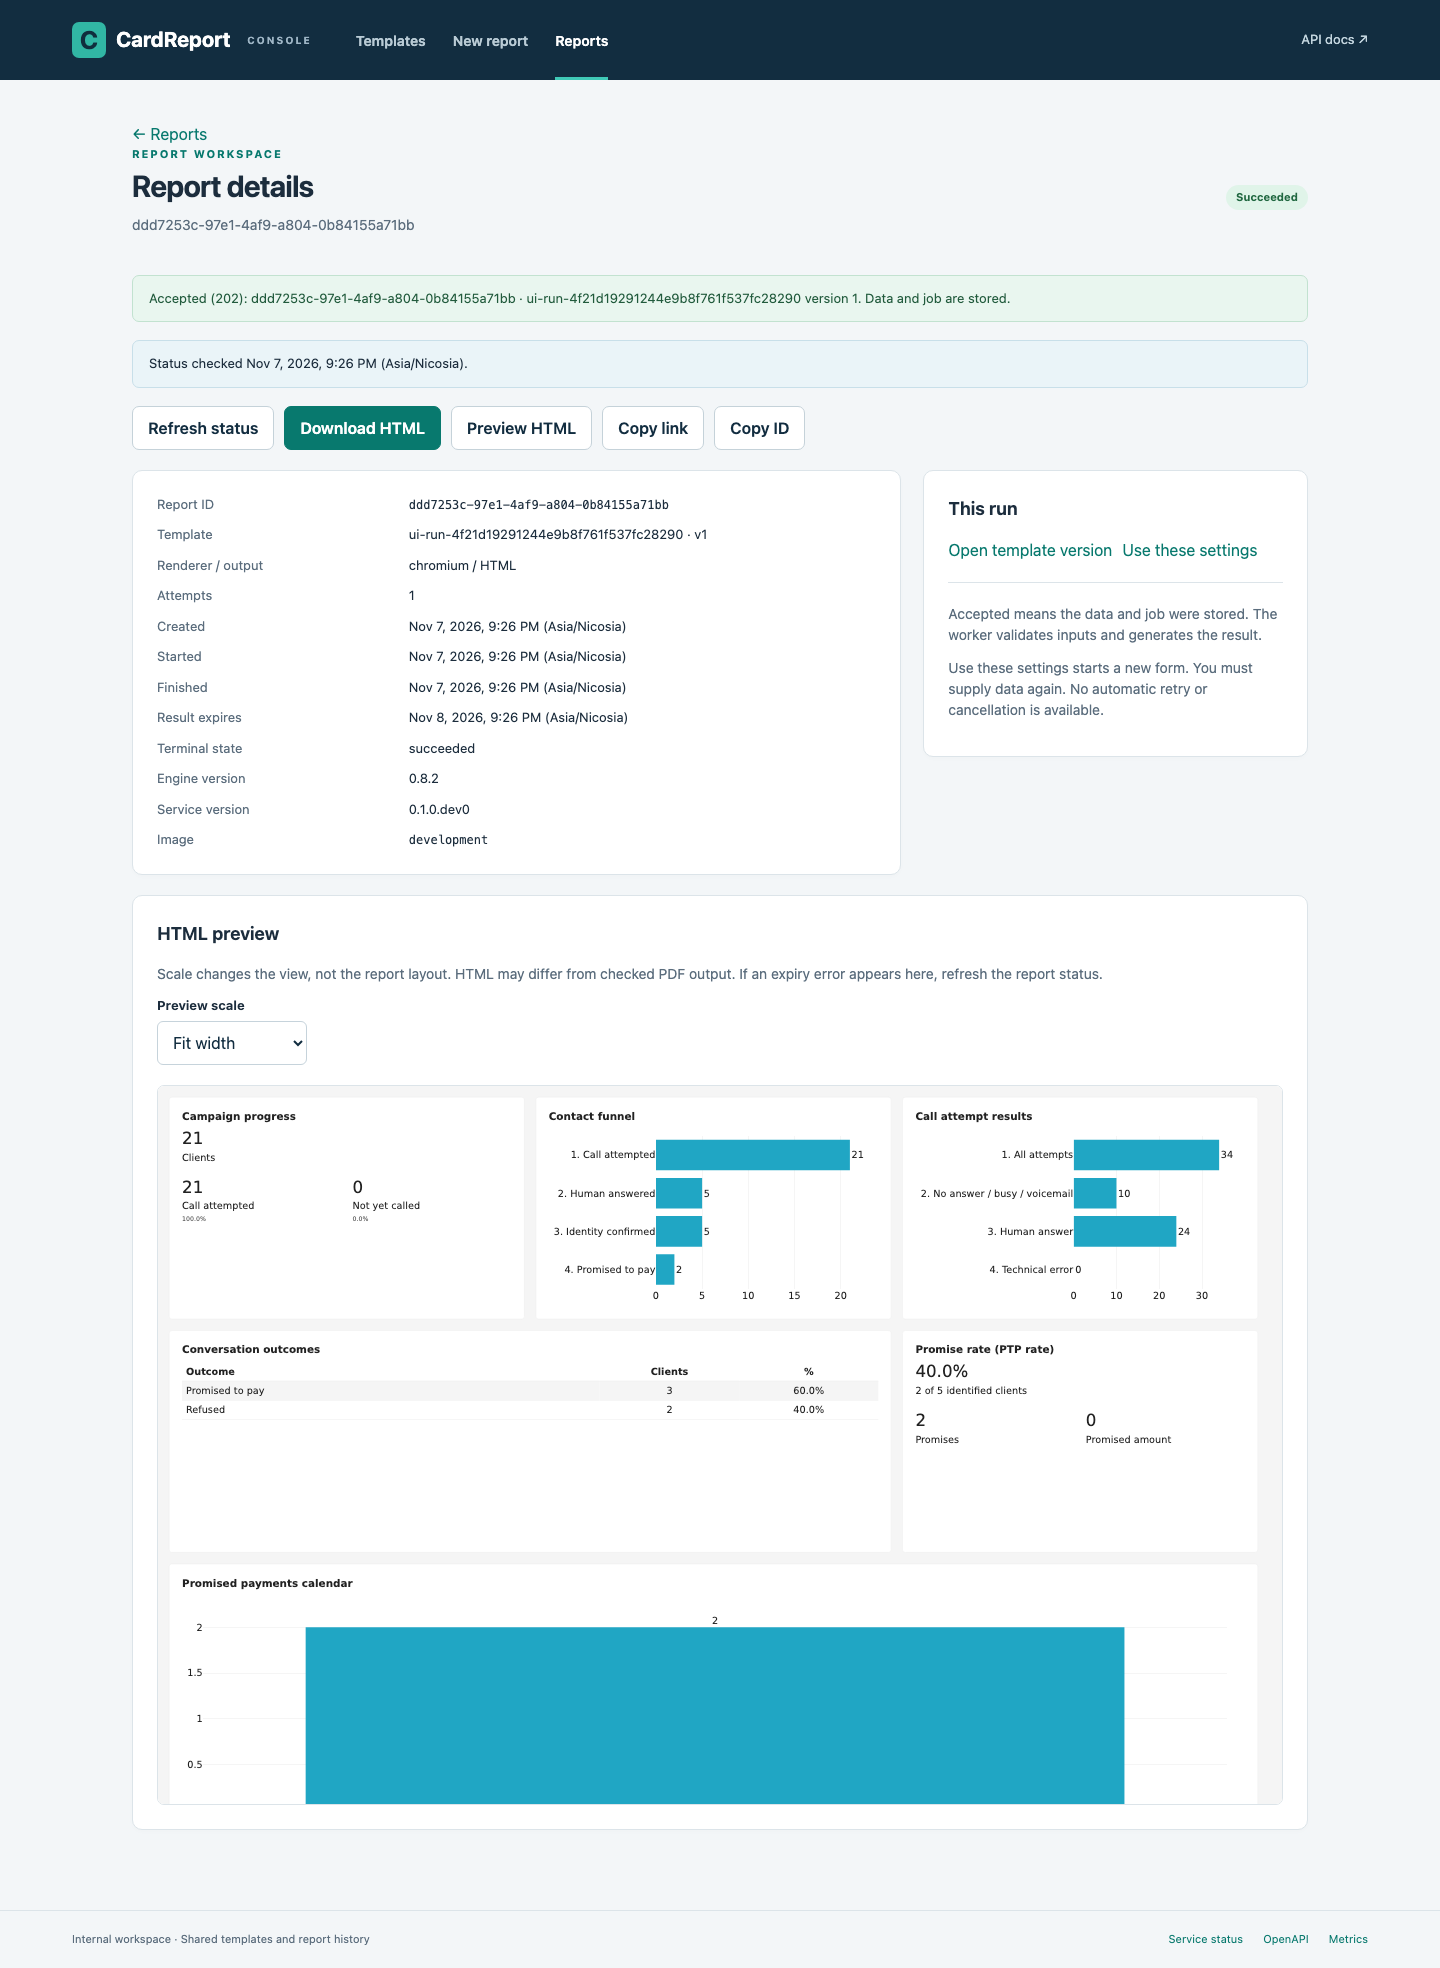
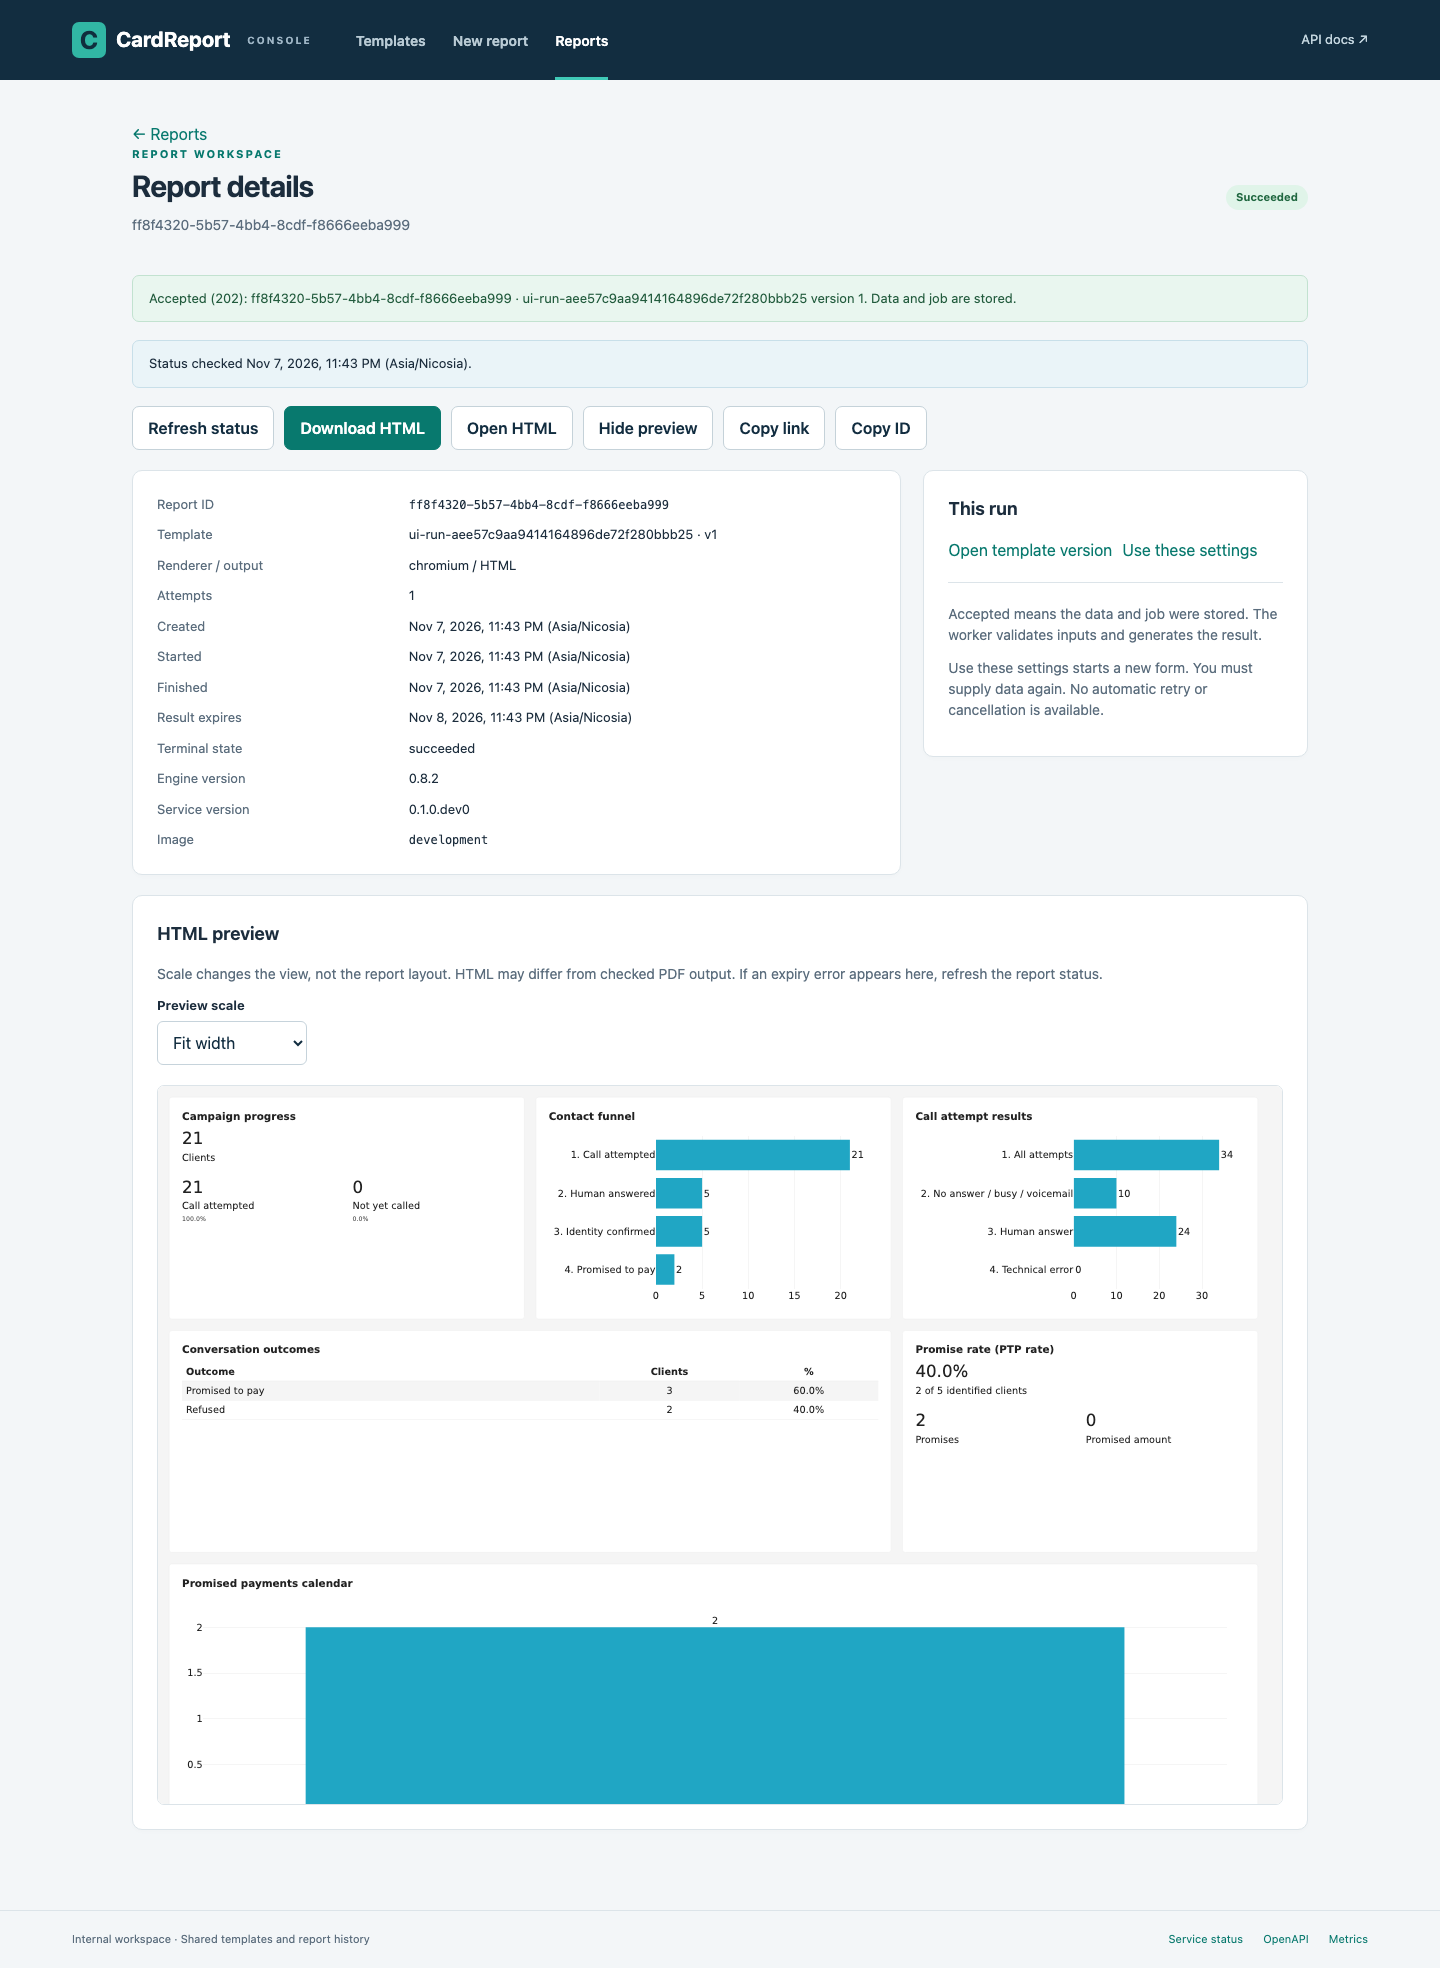
fix: allow closing HTML preview and opening it in a tab

diff --git a/src/cardreport_server/web/reports.js b/src/cardreport_server/web/reports.js
@@ -35,20 +35,21 @@ export async function reportDetail(root, ctx, id, params = new URLSearchParams()
   const acceptance = notice();
   if (accepted) history.replaceState(null, '', `#/reports/${encodeURIComponent(id)}`);
   const status = notice(), info = el('div', {class:'panel'}), errorBox = notice();
-  const previewArea = el('section', {class:'panel', hidden:true});
+  const previewArea = el('section', {id:'html-preview', class:'panel', hidden:true});
   const contentUrl = `/v1/reports/${encodeURIComponent(id)}/content`;
   let row = null, busy = false, timer = null, delay = 2000, missing = false, halted = false;
   const refresh = button('Refresh status', () => load(true));
   const download = el('a', {href:contentUrl, class:'button primary', hidden:true}, 'Download');
   const preview = button('Preview HTML', showPreview); preview.hidden = true;
-  const openPdf = el('a', {href:contentUrl + '?disposition=inline', target:'_blank', rel:'noopener noreferrer', class:'button', hidden:true}, 'Open PDF');
+  preview.setAttribute('aria-controls', 'html-preview'); preview.setAttribute('aria-expanded', 'false');
+  const openResult = el('a', {href:contentUrl + '?disposition=inline', target:'_blank', rel:'noopener noreferrer', class:'button', hidden:true}, 'Open PDF');
   const pdfHint = el('p', {class:'muted'}, 'Open PDF uses your browser’s viewer in a new tab. Browser settings may download it instead; an expired result opens an error.'); pdfHint.hidden = true;
   let previewObserver = null, previewRequest = 0;
   const reuse = link('Use these settings', '#/new-report'); reuse.hidden = true;
   const templateLink = link('Open template version', '#/templates'); templateLink.hidden = true;
   const badgeArea = el('div');
   root.replaceChildren(link('← Reports', '#/reports'), heading('Report details', id, badgeArea), acceptance, status,
-    el('div', {class:'toolbar'}, refresh, download, openPdf, preview, button('Copy link', () => copy(location.href, status)), button('Copy ID', () => copy(id, status))),
+    el('div', {class:'toolbar'}, refresh, download, openResult, preview, button('Copy link', () => copy(location.href, status)), button('Copy ID', () => copy(id, status))),
     el('div', {class:'grid'}, el('section', {}, info, errorBox), el('aside', {class:'panel'}, el('h2', {}, 'This run'),
       el('div', {class:'actions'}, templateLink, reuse), el('hr', {class:'divider'}), el('p', {class:'muted'}, 'Accepted means the data and job were stored. The worker validates inputs and generates the result.'),
       pdfHint,
@@ -64,7 +65,8 @@ export async function reportDetail(root, ctx, id, params = new URLSearchParams()
     message(errorBox, row.error ? `${row.error.message} (${row.error.code})${row.error.id ? ` · Reference ${row.error.id}` : ''}` : '', row.error ? 'error' : '', user);
     download.hidden = row.state !== 'succeeded'; preview.hidden = row.state !== 'succeeded' || row.output !== 'html';
     download.textContent = `Download ${row.output.toUpperCase()}`;
-    openPdf.hidden = row.state !== 'succeeded' || row.output !== 'pdf';
+    openResult.hidden = row.state !== 'succeeded';
+    openResult.textContent = `Open ${row.output.toUpperCase()}`;
     pdfHint.hidden = row.output !== 'pdf';
     templateLink.hidden = false; templateLink.href = `#/templates/${encodeURIComponent(row.template_id)}?version=${row.template_version}`;
     reuse.hidden = false; reuse.href = `#/new-report?${new URLSearchParams({template:row.template_id,version:row.template_version,renderer:row.renderer,output:row.output})}`;
@@ -86,7 +88,7 @@ export async function reportDetail(root, ctx, id, params = new URLSearchParams()
       halted = error instanceof APIError && error.status >= 400 && error.status < 500 && error.status !== 429;
       delay = Math.max(Math.min(delay * 2, 30000), (error.retryAfter || 0) * 1000);
       message(status, missing ? 'This report does not exist or its metadata has expired.' : `Status is stale. ${error.message || 'Connection failed.'} Refresh to try again.`, 'error', user);
-      download.hidden = true; preview.hidden = true; openPdf.hidden = true;
+      download.hidden = true; preview.hidden = true; openResult.hidden = true;
       clearPreview();
       return false;
     } finally { busy = false; refresh.disabled = false; schedule(); }
@@ -99,8 +101,10 @@ export async function reportDetail(root, ctx, id, params = new URLSearchParams()
   function clearPreview() {
     ++previewRequest; previewObserver?.disconnect(); previewObserver = null;
     previewArea.replaceChildren(); previewArea.hidden = true;
+    preview.textContent = 'Preview HTML'; preview.setAttribute('aria-expanded', 'false');
   }
   async function showPreview() {
+    if (!previewArea.hidden) { clearPreview(); return; }
     if (!await load(true) || row.state !== 'succeeded' || row.output !== 'html') return;
     clearPreview(); const request = previewRequest; preview.disabled = true;
     try {
@@ -116,6 +120,7 @@ export async function reportDetail(root, ctx, id, params = new URLSearchParams()
       const canvas = el('div', {class:'preview-canvas'}, frame);
       const viewport = el('div', {class:'preview-viewport'}, canvas);
       previewArea.hidden = false;
+      preview.textContent = 'Hide preview'; preview.setAttribute('aria-expanded', 'true');
       previewArea.replaceChildren(el('h2', {}, 'HTML preview'),
         el('p', {class:'muted'}, 'Scale changes the view, not the report layout. HTML may differ from checked PDF output. If an expiry error appears here, refresh the report status.'),
         el('div', {class:'toolbar'}, field('Preview scale', scale)),

diff --git a/tests/ui/test_console_reports.py b/tests/ui/test_console_reports.py
@@ -95,6 +95,37 @@ def test_upload_preview_and_download(
         page, "document.querySelector('iframe').getBoundingClientRect().width > 900"
     )
 
+    hide = page.get_by_role("button", name="Hide preview", exact=True)
+    expect(hide).to_have_attribute("aria-expanded", "true")
+    hide.click()
+    expect(page.locator('iframe[title="Report preview"]')).to_have_count(0)
+    expect(
+        page.get_by_role("button", name="Preview HTML", exact=True)
+    ).to_have_attribute("aria-expanded", "false")
+    open_html = page.get_by_role("link", name="Open HTML", exact=True)
+    expect(open_html).to_have_attribute("target", "_blank")
+    expect(open_html).to_have_attribute("rel", "noopener noreferrer")
+    with page.expect_popup() as opened:
+        open_html.click()
+    popup = opened.value
+    try:
+        expect(popup.locator("svg").first).to_be_visible(timeout=30000)
+        if renderer == "chromium":
+            expect(popup.locator(".barlayer path").first).to_be_visible()
+        assert popup.evaluate("window.opener === null")
+        assert popup.evaluate("window.origin") == "null"
+        assert popup.evaluate("""() => {
+            try { localStorage.getItem('probe'); return false; }
+            catch (error) { return error.name === 'SecurityError'; }
+        }""")
+    finally:
+        popup.close()
+    # Opening a separate tab does not reopen the embedded preview.
+    expect(page.locator('iframe[title="Report preview"]')).to_have_count(0)
+    page.get_by_role("button", name="Preview HTML", exact=True).click()
+    expect(frame.locator("svg").first).to_be_visible(timeout=30000)
+    expect(page.get_by_label("Preview scale", exact=True)).to_have_value("fit")
+
     with page.expect_download() as download:
         page.get_by_role("link", name="Download HTML", exact=True).click()
     payload = Path(download.value.path()).read_bytes()
@@ -271,6 +302,7 @@ def test_generated_markup_is_text(
             status=503, json={"error": {"message": "Unavailable"}}
         ),
     )
+    page.get_by_role("button", name="Hide preview", exact=True).click()
     page.get_by_role("button", name="Preview HTML").click()
     expect(
         page.get_by_text("Automatic scaling is unavailable.", exact=False)

diff --git a/docs/user/web-console.md b/docs/user/web-console.md
@@ -68,8 +68,13 @@ status is always available. Health/readiness and report success are separate che
 Download retrieves the original committed bytes. **Open PDF** opens the same result
 in a new tab using the browser’s native PDF viewer; Download remains a separate
 action. Browser preferences or a missing PDF viewer may cause a download instead.
-If the result expires before the new tab opens, it displays the API error.
-**Preview HTML** opens an isolated frame;
+**Open HTML** opens the report in a separate tab at its original size, without
+opening the embedded preview. It retains the server’s isolated HTML policy.
+**Preview HTML** opens an isolated frame in the console; **Hide preview** closes
+it and releases its resources. You can reopen it while the result is available.
+If a result expires before Open HTML or Open PDF loads, the new tab displays
+the API error.
+
 Chromium and WeasyPrint HTML both work, but only PDF performs the authoritative
 layout/export checks. **Fit width** scales the complete report to the available
 width without rearranging its charts or tables; **100%** uses the original scale
@@ -94,7 +99,7 @@ sessionStorage, and the console does not add authentication or per-user visibili
 | Submit report with data/renderer/output/version | New report |
 | List retained jobs and filter | Reports |
 | Get status/attempts/error/versions | Report detail |
-| Get result content | Download; HTML preview with scaling; Open PDF in a new tab |
+| Get result content | Download; collapsible HTML preview with scaling; Open HTML/PDF in a new tab |
 | Liveness and readiness | Service status |
 | Swagger, OpenAPI, raw metrics | Navigation/footer links |
 

diff --git a/docs/reviews/2026-11-07-preview-refinement.md b/docs/reviews/2026-11-07-preview-refinement.md
@@ -56,3 +56,18 @@ The full integration/container/browser run used a fresh isolated Compose stack
 and removed only its own resources on success. The normal local API was updated
 and visually checked without changing stored templates or reports. No schema
 migration, package release or production deployment was needed.
+
+
+## Follow-up: close preview and open HTML separately
+
+Owner requested a close action and HTML opening in a separate tab. Preview HTML
+now toggles to Hide preview, removing the iframe and observer on close; reopening
+starts at Fit width. Open HTML uses the existing inline endpoint with
+noopener/noreferrer and the unchanged response CSP sandbox. No API policy change.
+
+A bounded Claude consultation exited 0 with no blockers. Documentation wording
+was tightened around retained-result availability. All 33 browser cases passed,
+including real Chromium/WeasyPrint HTML chart rendering in a new tab, no opener,
+opaque origin, denied localStorage and close/reopen without losing fit behavior.
+Existing native PDF tests also passed. Ruff/format, documentation and whitespace
+checks passed. The screenshot uses the isolated synthetic example.

diff --git a/docs/ui-design.md b/docs/ui-design.md
@@ -200,7 +200,10 @@ The console defaults to Fit width: obtain `page_dimensions_mm` from the pinned
 version metadata, computed with CardReport’s public Page API, and scale an iframe
 at that natural width inside a bounded viewport. ResizeObserver follows the
 viewport; 100% restores original size with scrolling. Dispose the observer when
-replacing/hiding the preview or leaving the page. Metadata failure falls back to
+replacing/hiding the preview or leaving the page. Preview HTML toggles to Hide
+preview; closing removes the iframe and reopening starts at Fit width. Open HTML
+uses the same inline endpoint in a new tab with noopener/noreferrer, retaining
+the response CSP sandbox even outside the embedded frame. Metadata failure falls back to
 an unscaled frame. Never access the isolated report DOM or rewrite its content.
 
 PDF has separate Download and Open PDF actions. Open PDF is a direct new-tab link
